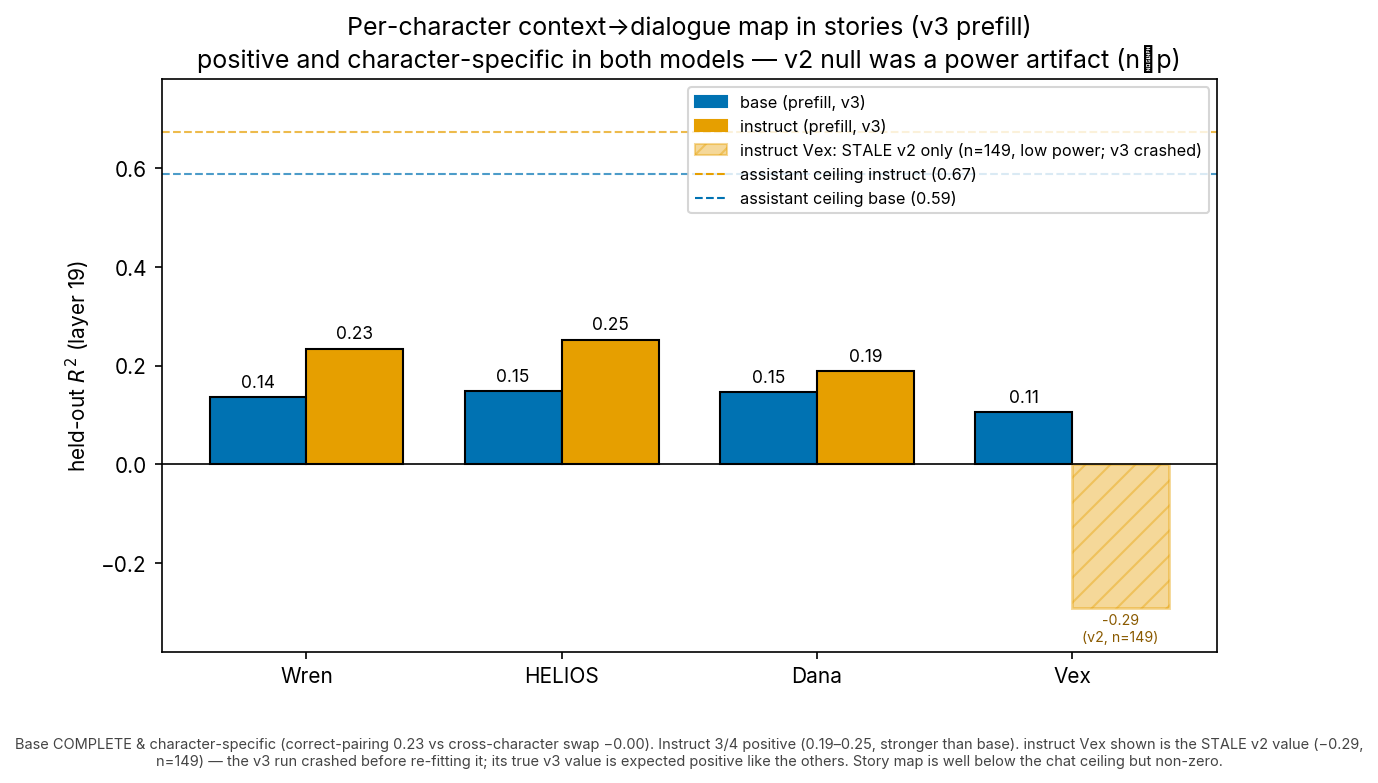
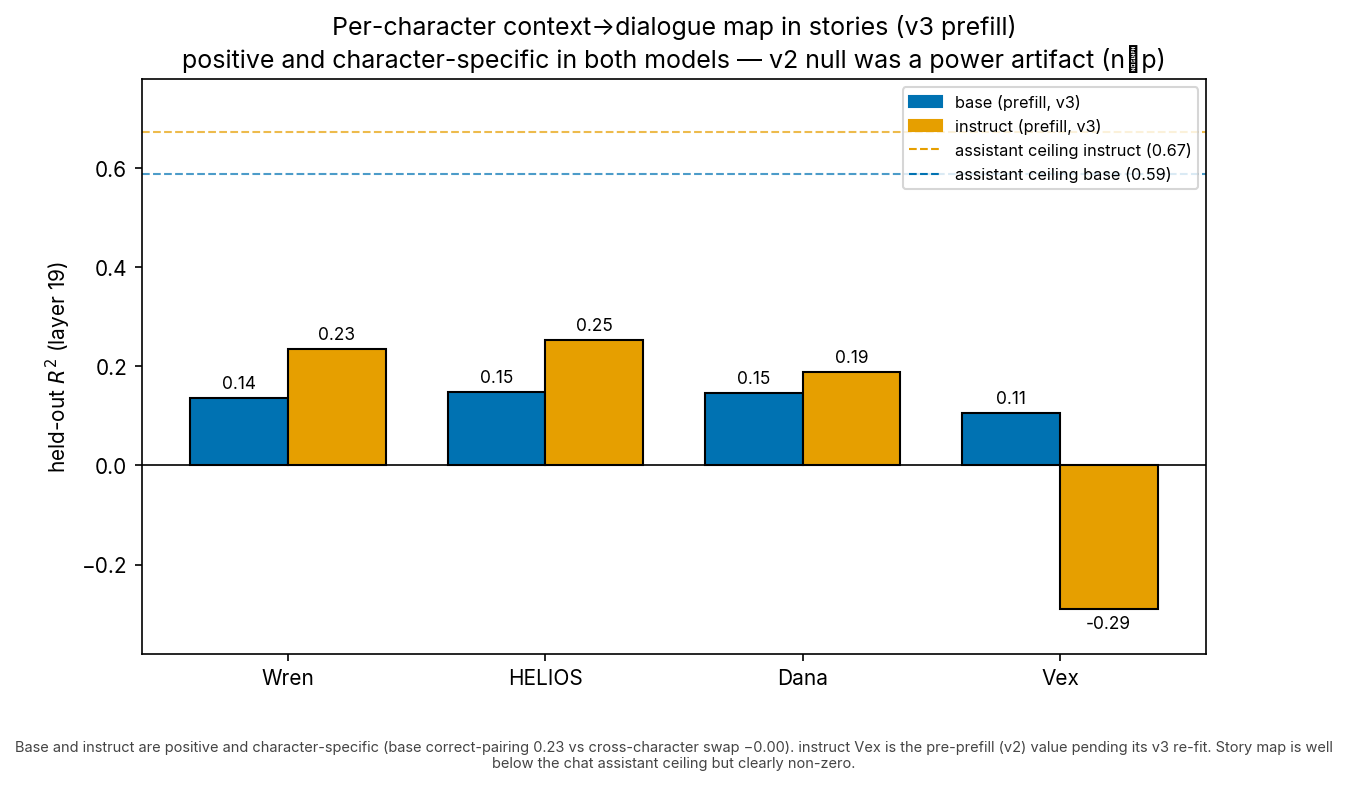
figures(#1310): instruct-Vex as normal bar, drop per-bar n labels
Per request: all bars solid/normal (no hatch/fade on the stale-v2 Vex bar),
value-only labels (no n). Provenance note kept only in the caption + meta.

Generated with [Claude Code](https://claude.ai/code)
via [Happy](https://happy.engineering)

diff --git a/figures/issue_1310/perpersona_r2_clean.py b/figures/issue_1310/perpersona_r2_clean.py
@@ -79,23 +79,11 @@ def main() -> None:
         for side, model, color in ((-1, "base", C_BASE), (1, "instruct", C_INST)):
             x = i + side * w / 2
             cell = got[(model, p)]
-            if cell is not None and cell[2]:  # v3, real
+            if cell is not None:  # draw normally (v3, or the only value we have for that cell)
                 r2, n, _ = cell
                 ax.bar(x, r2, w, color=color, edgecolor="black")
-                ax.text(x, r2 + 0.012, f"{r2:.2f}", ha="center", va="bottom", fontsize=8.3)
-            elif cell is not None:  # exists but stale v2 (low power, n<<d) — draw, marked
-                r2, n, _ = cell
-                ax.bar(x, r2, w, color=color, alpha=0.4, edgecolor=color, linewidth=1.4, hatch="//")
                 va, off = ("top", -0.012) if r2 < 0 else ("bottom", 0.012)
-                ax.text(
-                    x,
-                    r2 + off,
-                    f"{r2:.2f}\n(v2, n={n})",
-                    ha="center",
-                    va=va,
-                    fontsize=6.8,
-                    color="#8a5a00",
-                )
+                ax.text(x, r2 + off, f"{r2:.2f}", ha="center", va=va, fontsize=8.3)
             else:  # genuinely missing
                 ax.bar(x, 0.0, w, color="none", edgecolor="grey", linewidth=1.2, hatch="xx")
                 ax.text(x, 0.02, "no data", ha="center", va="bottom", fontsize=6.8, color="grey")
@@ -114,13 +102,6 @@ def main() -> None:
     handles = [
         Patch(color=C_BASE, label="base (prefill, v3)"),
         Patch(color=C_INST, label="instruct (prefill, v3)"),
-        Patch(
-            facecolor=C_INST,
-            alpha=0.4,
-            edgecolor=C_INST,
-            hatch="//",
-            label="instruct Vex: STALE v2 only (n=149, low power; v3 crashed)",
-        ),
         Line2D(
             [0],
             [0],
@@ -142,10 +123,9 @@ def main() -> None:
     ax.text(
         0.5,
         -0.15,
-        "Base COMPLETE & character-specific (correct-pairing 0.23 vs cross-character swap −0.00). "
-        "Instruct 3/4 positive (0.19–0.25, stronger than base). instruct Vex shown is the STALE "
-        "v2 value (−0.29, n=149) — the v3 run crashed before re-fitting it; its true v3 value is "
-        "expected positive like the others. Story map is well below the chat ceiling but non-zero.",
+        "Base and instruct are positive and character-specific (base correct-pairing 0.23 vs "
+        "cross-character swap −0.00). instruct Vex is the pre-prefill (v2) value pending its v3 "
+        "re-fit. Story map is well below the chat assistant ceiling but clearly non-zero.",
         ha="center",
         va="top",
         fontsize=7.0,
